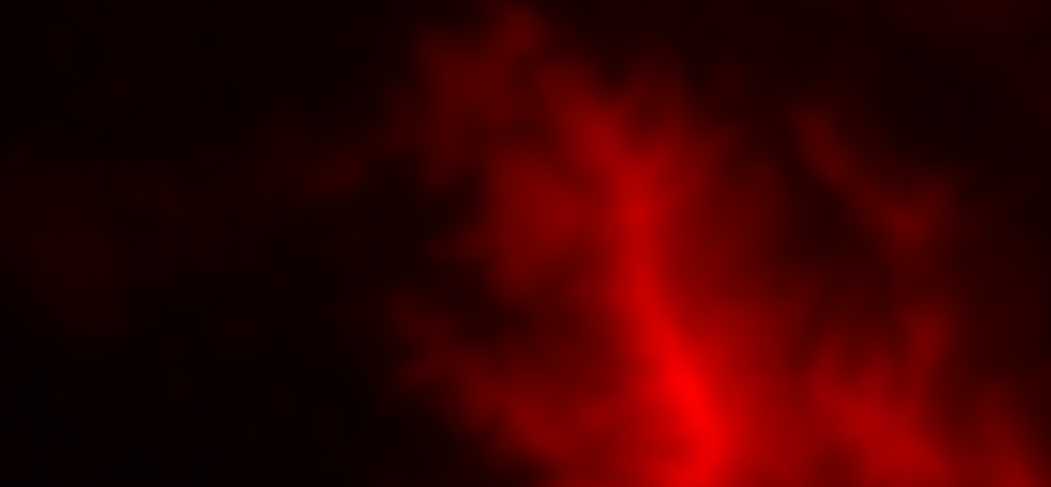
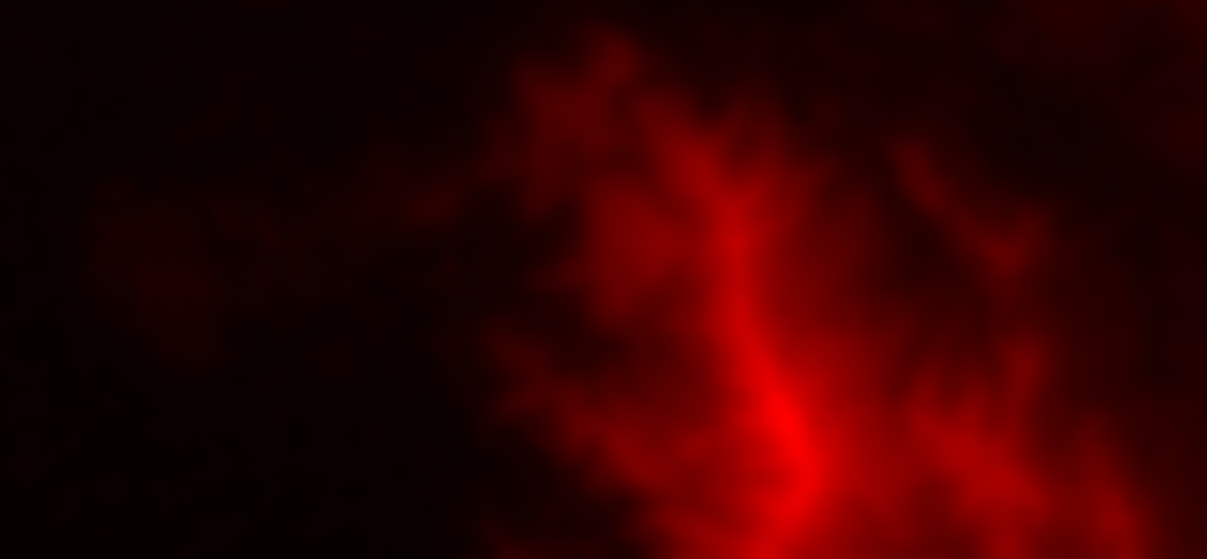
Dog walk to food source
Now, the dog can walk to the food source. However, the result is still underestimated and sometimes cause weird intepretation.

diff --git a/Assets/OnMapSpawn.cs b/Assets/OnMapSpawn.cs
@@ -247,7 +247,6 @@ public class OnMapSpawn : MonoBehaviour
             normalizeWalkingExtension();
             kernelDensityEstimation(false);
             walkingWithinHomeRange();
-            walkingToAttracter();
             maxColor(2); //type 2 is walking habits type
             createImage(0 , 5); //create only walking habits
             createImage(0 , 6); //create walking habits and dog group
@@ -1076,7 +1075,7 @@ public class OnMapSpawn : MonoBehaviour
                     dir_val[x , y] = 1;
                     if (apply_edge)
                     {
-                        findNearestGroupNeighbour(x , y, true); //Combine (not yet concluded) the radius
+                        findNearestAttractionSource(x , y); //Combine (not yet concluded) the radius
                     }
                 }
             }
@@ -1111,10 +1110,14 @@ public class OnMapSpawn : MonoBehaviour
             }
         }
 
+        //Euclidean distance SQRTed
+        dogradius[selectedSource] += Mathf.Sqrt(smallestsize);
+        factradius[selectedSource]++;
+
         return selectedSource;
     }
 
-    private int findNearestGroupNeighbour(int x , int y, bool setRadius = false)
+    private int findNearestGroupNeighbour(int x , int y)
     {
         int selectedgroup = 0;
         float thisx = abs(dogdata[0].lonid - x);
@@ -1135,12 +1138,6 @@ public class OnMapSpawn : MonoBehaviour
                 smallestsize = distance;
                 selectedgroup = i;
             }
-        }
-
-        if (setRadius){
-            //Euclidean distance SQRTed
-            dogradius[selectedgroup] += Mathf.Sqrt(smallestsize);
-            factradius[selectedgroup]++;
         }
 
         return selectedgroup;
@@ -1290,32 +1287,10 @@ public class OnMapSpawn : MonoBehaviour
         }
     }
 
-    private void walkingToAttracter(){
-        for (int y = 0 ; y < ygridsize ; y++){
-            for (int x = 0 ; x < xgridsize ; x++){
-                walk[x , y] = 0;
-            }
-        }
-
-        for (int i = 0 ; i < attracter.Count ; i++){
-            walk[attracter[i].lonid, attracter[i].latid] = 1;
-        }
-
-        for (int y = 0 ; y < ygridsize ; y++)
-        {
-            for (int x = 0 ; x < xgridsize ; x++)
-            {
-                if (edge[x , y] > 0)
-                {
-                    walkToAllExtensionalRange(x , y);
-                }
-            }
-        }
-    }
-
     //For each home point reaching path will move to the end direction of maximum walking range
     private void walkToAllExtensionalRange(int thisx, int thisy)
     {
+        /* 
         int radius;
         for (int y = 0; y < ygridsize; y++)
         {
@@ -1328,6 +1303,12 @@ public class OnMapSpawn : MonoBehaviour
                 }
             }
         }
+        */
+
+        int source, radius;
+        source = findNearestAttractionSource(thisx, thisy);
+        radius = (int)dogradius[findNearestGroupNeighbour(thisx, thisy)];
+        walkingBehaviour(thisx, thisy, attracter[source].lonid, attracter[source].latid, radius);
     }
 
     //The moving behaviour probabilities of normal dog from t (this) point to d (destination) point
